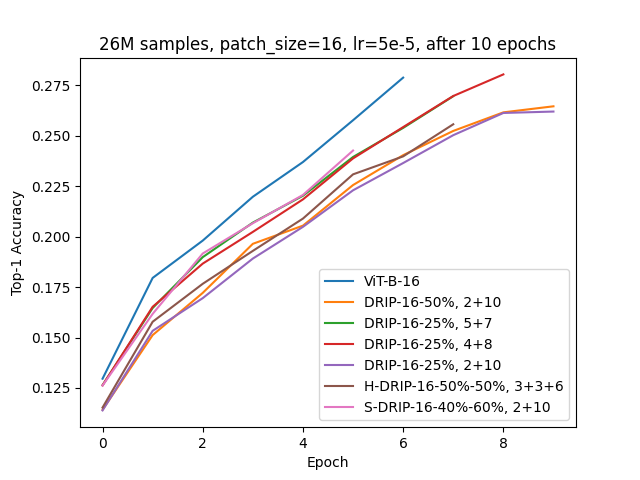
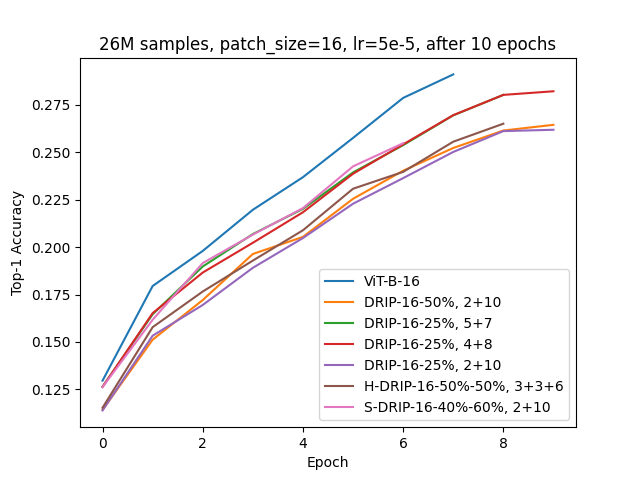
.

diff --git a/README.md b/README.md
@@ -128,11 +128,11 @@ else:
 | 💧DRIP-32-25%, 2+10 | 1.88 | 10 | **24.56%** | 48.80% |
 | 💦H-DRIP-32-50%-50%, 3+3+6 | 2.51 | 10 | 23.10% | 46.92% |
 | 🫧S-DRIP-32-40%-60%, 2+10 | 2.81 | 10 | 23.32% | 46.97% |
-| ViT-B-16 | **11.29** | 10 | **33.88% re-running** | 60.81%, re-running |
-| 💧DRIP-2X-16, 2+10 | 11.14 | 10 | running | running |
+| ViT-B-16 | **11.29** | 10 | **re-running** | re-running |
+| 💧DRIP-2X-16, 2+10 | 11.14 | 10 | 26.45% | 51.64% |
 | 💧DRIP-4X-16, 5+7 | 10.82🔥 | 10 | running | running |
-| 💧DRIP-4X-16, 4+8 | 9.61 | 10 | running | running |
-| 💧DRIP-4X-16, 2+10 | 7.21 | 10 | running | running |
+| 💧DRIP-4X-16, 4+8 | 9.61 | 10 | 28.22% | 54.32% |
+| 💧DRIP-4X-16, 2+10 | 7.21 | 10 | 26.19% | 51.75% |
 | 💦H-DRIP-16-50%-50%, 3+3+6 | 9.65🔥 | 10 | running | running |
 | 🫧S-DRIP-16-40%-60%, 2+10 | 11.14 | 10 | running | running |
 
